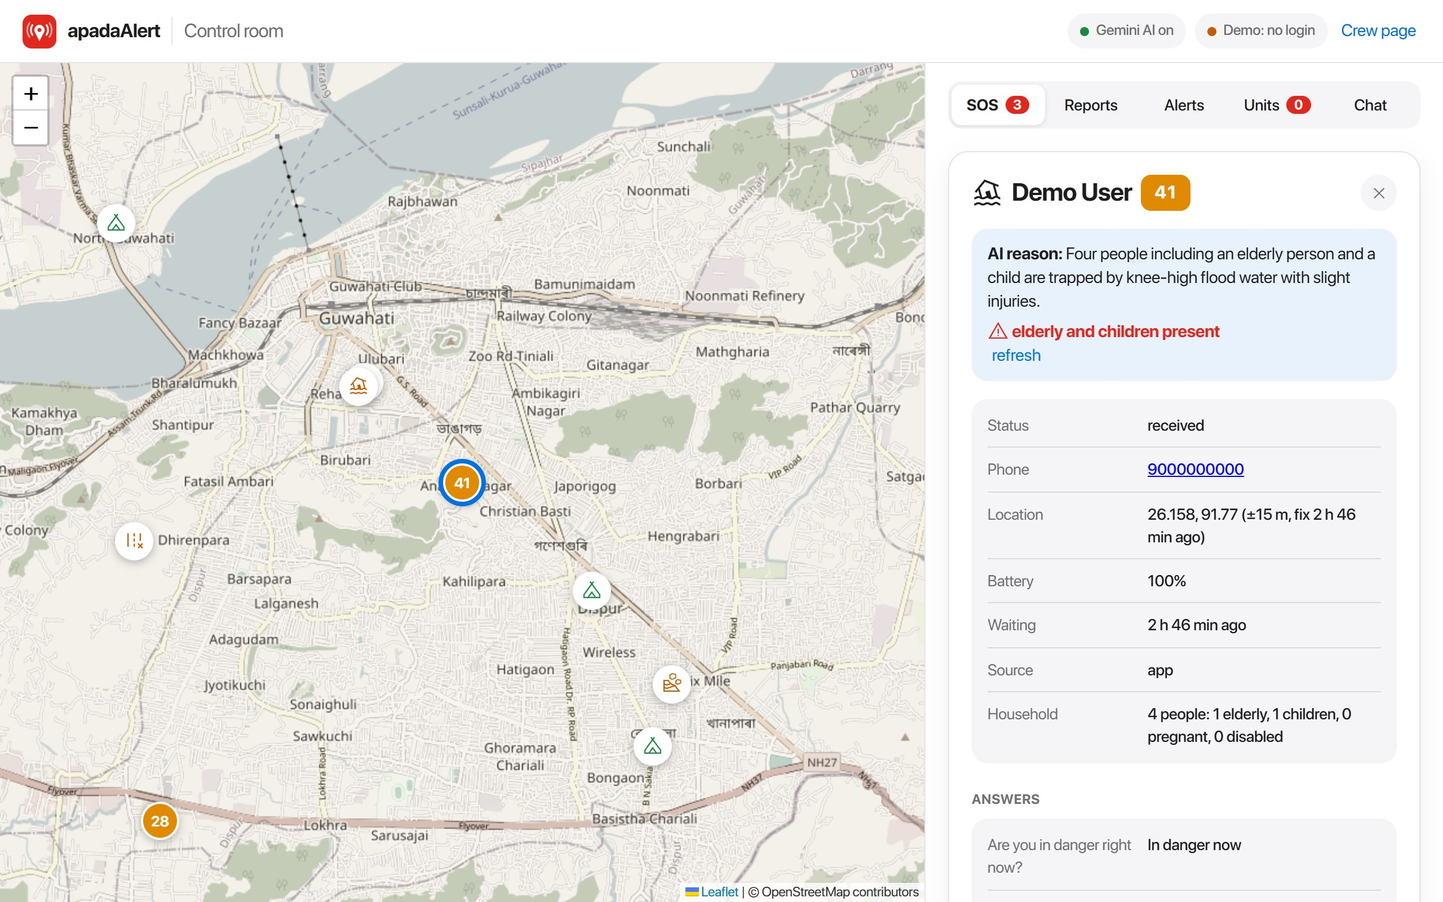
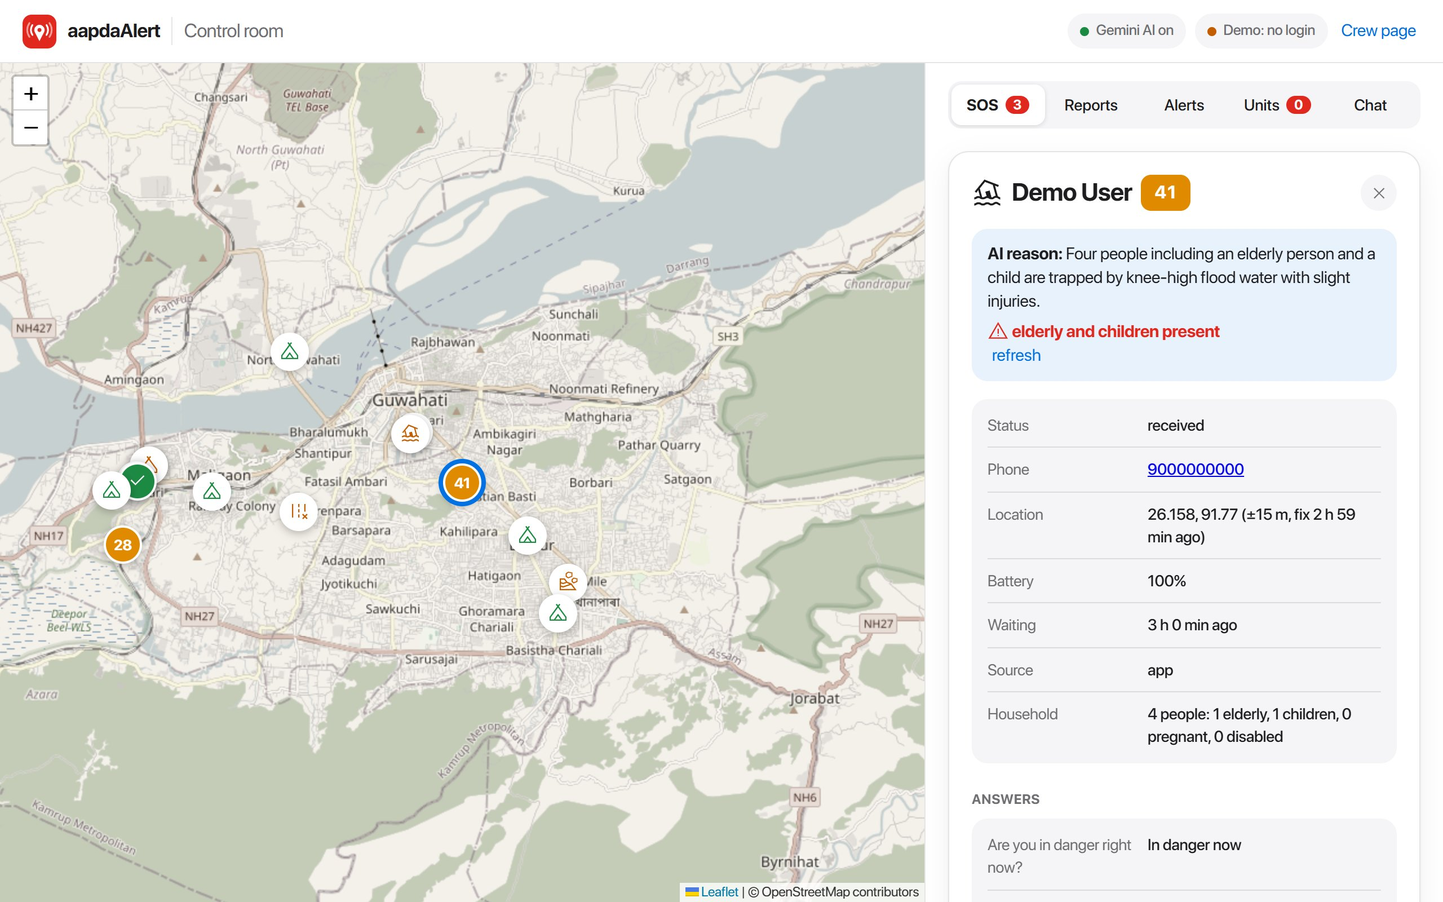
feat: rename to aapdaAlert and add desktop phone preview frame

diff --git a/public/js/i18n.js b/public/js/i18n.js
@@ -45,7 +45,7 @@ const S = {
     worried_msg: "Stay alert. If it gets worse, send an SOS.",
     steps_ai: "Steps by AI. If life is in danger, call 112 first.", steps_saved: "Saved safety steps. If life is in danger, call 112 first.",
     // chat
-    chat_title: "AI companion", chat_ph: "Type or tap the mic", im_in_danger: "I'm in danger", chat_hello: "Hello, I'm your apadaAlert companion. Ask me anything about staying safe, or tell me what's happening.",
+    chat_title: "AI companion", chat_ph: "Type or tap the mic", im_in_danger: "I'm in danger", chat_hello: "Hello, I'm your aapdaAlert companion. Ask me anything about staying safe, or tell me what's happening.",
     chat_offline: "No network, so I can't chat right now. You can still answer the quick questions, read the guides or call a helpline.",
     chat_ai_off: "The AI is not available right now. You can still answer the quick questions, read the guides or call a helpline.",
     ask_questions: "Answer quick questions", chat_saved_note: "Chats are saved on our server and processed by Google Gemini.",
@@ -119,7 +119,7 @@ const S = {
     dothis: "अभी यह करें", read_aloud: "पढ़कर सुनाएँ", copy_sms: "SMS के लिए कॉपी करें", copied: "कॉपी हो गया", strobe: "फ्लैश",
     worried_msg: "सतर्क रहें। हालात बिगड़ें तो SOS भेजें।",
     steps_ai: "AI द्वारा कदम। जान का खतरा हो तो पहले 112 पर कॉल करें।", steps_saved: "सेव किए गए सुरक्षा कदम। जान का खतरा हो तो पहले 112 पर कॉल करें।",
-    chat_title: "AI साथी", chat_ph: "लिखें या माइक दबाएँ", im_in_danger: "मैं खतरे में हूँ", chat_hello: "नमस्ते, मैं आपका apadaAlert साथी हूँ। सुरक्षित रहने के बारे में कुछ भी पूछें, या बताएँ क्या हो रहा है।",
+    chat_title: "AI साथी", chat_ph: "लिखें या माइक दबाएँ", im_in_danger: "मैं खतरे में हूँ", chat_hello: "नमस्ते, मैं आपका aapdaAlert साथी हूँ। सुरक्षित रहने के बारे में कुछ भी पूछें, या बताएँ क्या हो रहा है।",
     chat_offline: "नेटवर्क नहीं है, इसलिए अभी बात नहीं हो सकती। आप जल्दी के सवालों का जवाब दे सकते हैं, गाइड पढ़ सकते हैं या हेल्पलाइन पर कॉल कर सकते हैं।",
     chat_ai_off: "AI अभी उपलब्ध नहीं है। आप जल्दी के सवालों का जवाब दे सकते हैं, गाइड पढ़ सकते हैं या हेल्पलाइन पर कॉल कर सकते हैं।",
     ask_questions: "जल्दी के सवाल", chat_saved_note: "बातचीत हमारे सर्वर पर सेव होती है और Google Gemini द्वारा प्रोसेस होती है।",
@@ -186,7 +186,7 @@ const S = {
     dothis: "এতিয়াই এইটো কৰক", read_aloud: "পঢ়ি শুনাওক", copy_sms: "SMS-ৰ বাবে কপি কৰক", copied: "কপি হ'ল", strobe: "ফ্লেচ",
     worried_msg: "সজাগ থাকক। অৱস্থা বেয়া হ'লে SOS পঠিয়াওক।",
     steps_ai: "AI-ৰ পৰামৰ্শ। প্ৰাণৰ ভয় থাকিলে প্ৰথমে 112 লৈ ফোন কৰক।", steps_saved: "ছেভ কৰা সুৰক্ষা পদক্ষেপ। প্ৰাণৰ ভয় থাকিলে প্ৰথমে 112 লৈ ফোন কৰক।",
-    chat_title: "AI সংগী", chat_ph: "লিখক বা মাইক টিপক", im_in_danger: "মই বিপদত আছো", chat_hello: "নমস্কাৰ, মই আপোনাৰ apadaAlert সংগী। সুৰক্ষিত থকাৰ বিষয়ে যিকোনো কথা সোধক, বা কি হৈ আছে কওক।",
+    chat_title: "AI সংগী", chat_ph: "লিখক বা মাইক টিপক", im_in_danger: "মই বিপদত আছো", chat_hello: "নমস্কাৰ, মই আপোনাৰ aapdaAlert সংগী। সুৰক্ষিত থকাৰ বিষয়ে যিকোনো কথা সোধক, বা কি হৈ আছে কওক।",
     chat_offline: "নেটৱৰ্ক নাই, সেয়েহে এতিয়া কথা পাতিব নোৱাৰি। আপুনি সোনকালে প্ৰশ্নৰ উত্তৰ দিব পাৰে, গাইড পঢ়িব পাৰে বা হেল্পলাইনলৈ ফোন কৰিব পাৰে।",
     chat_ai_off: "AI এতিয়া উপলব্ধ নহয়। আপুনি সোনকালে প্ৰশ্নৰ উত্তৰ দিব পাৰে, গাইড পঢ়িব পাৰে বা হেল্পলাইনলৈ ফোন কৰিব পাৰে।",
     ask_questions: "সোনকালে প্ৰশ্ন", chat_saved_note: "কথা-বতৰা আমাৰ চাৰ্ভাৰত ছেভ হয় আৰু Google Gemini-এ প্ৰচেছ কৰে।",
@@ -253,7 +253,7 @@ const S = {
     dothis: "এখনই এটা করুন", read_aloud: "পড়ে শোনান", copy_sms: "SMS-এর জন্য কপি করুন", copied: "কপি হয়েছে", strobe: "ফ্ল্যাশ",
     worried_msg: "সতর্ক থাকুন। অবস্থা খারাপ হলে SOS পাঠান।",
     steps_ai: "AI-এর পরামর্শ। প্রাণের ঝুঁকি থাকলে আগে 112-এ ফোন করুন।", steps_saved: "সেভ করা নিরাপত্তা পদক্ষেপ। প্রাণের ঝুঁকি থাকলে আগে 112-এ ফোন করুন।",
-    chat_title: "AI সঙ্গী", chat_ph: "লিখুন বা মাইক চাপুন", im_in_danger: "আমি বিপদে আছি", chat_hello: "নমস্কার, আমি আপনার apadaAlert সঙ্গী। নিরাপদ থাকা নিয়ে যা খুশি জিজ্ঞেস করুন, বা কী হচ্ছে বলুন।",
+    chat_title: "AI সঙ্গী", chat_ph: "লিখুন বা মাইক চাপুন", im_in_danger: "আমি বিপদে আছি", chat_hello: "নমস্কার, আমি আপনার aapdaAlert সঙ্গী। নিরাপদ থাকা নিয়ে যা খুশি জিজ্ঞেস করুন, বা কী হচ্ছে বলুন।",
     chat_offline: "নেটওয়ার্ক নেই, তাই এখন কথা বলা যাচ্ছে না। আপনি দ্রুত প্রশ্নের উত্তর দিতে, গাইড পড়তে বা হেল্পলাইনে ফোন করতে পারেন।",
     chat_ai_off: "AI এখন পাওয়া যাচ্ছে না। আপনি দ্রুত প্রশ্নের উত্তর দিতে, গাইড পড়তে বা হেল্পলাইনে ফোন করতে পারেন।",
     ask_questions: "দ্রুত প্রশ্ন", chat_saved_note: "কথোপকথন আমাদের সার্ভারে সেভ হয় এবং Google Gemini প্রসেস করে।",

diff --git a/public/styles.css b/public/styles.css
@@ -1,4 +1,4 @@
-/* apadaAlert citizen app.
+/* aapdaAlert citizen app.
    White theme. SF Pro on Apple devices, Inter elsewhere. 8-point spacing. Large touch targets. */
 :root {
   /* colour */
@@ -13,6 +13,7 @@
   /* shape and space */
   --r-s: 10px; --r-m: 14px; --r-l: 18px; --r-xl: 24px;
   --gutter: 20px; --nav-h: 60px; --top-h: 52px;
+  --app-h: 100dvh; /* the app's visible height: the whole screen on phones, the phone frame on wide screens */
   --shadow: 0 1px 2px rgba(0, 0, 0, .04), 0 8px 24px rgba(0, 0, 0, .06);
   --font: -apple-system, BlinkMacSystemFont, "SF Pro Text", "SF Pro Display", "Inter", system-ui, "Segoe UI", Roboto,
     "Noto Sans", "Noto Sans Devanagari", "Noto Sans Bengali", sans-serif;
@@ -189,7 +190,7 @@ button:focus-visible, a:focus-visible, input:focus-visible, textarea:focus-visib
 .steps li::before { content: counter(s); position: absolute; left: 0; top: -1px; width: 26px; height: 26px; border-radius: 50%; background: var(--fill); color: var(--text-2); font-size: 13px; font-weight: 700; display: grid; place-items: center; }
 
 /* ---------- intro and forms ---------- */
-.intro { min-height: calc(100dvh - var(--top-h) - 32px); display: flex; }
+.intro { min-height: calc(var(--app-h) - var(--top-h) - 32px); display: flex; }
 .intro-card { width: 100%; display: flex; flex-direction: column; text-align: center; padding: 24px 0 112px; }
 .intro-card.left { text-align: left; }
 .intro-body { flex: 1; display: flex; flex-direction: column; justify-content: center; }
@@ -233,7 +234,7 @@ textarea { resize: vertical; }
 .overlay { position: fixed; inset: 0; z-index: 50; background: var(--bg); overflow-y: auto; display: flex; justify-content: center; }
 .overlay > * { width: 100%; max-width: 560px; }
 .overlay.sheet { background: rgba(0, 0, 0, .4); align-items: flex-end; }
-.overlay.sheet > .card { margin: 0; border: 0; border-radius: var(--r-xl) var(--r-xl) 0 0; max-height: 92dvh; overflow-y: auto; padding: 12px var(--gutter) calc(24px + env(safe-area-inset-bottom)); box-shadow: 0 -8px 40px rgba(0, 0, 0, .18); }
+.overlay.sheet > .card { margin: 0; border: 0; border-radius: var(--r-xl) var(--r-xl) 0 0; max-height: calc(var(--app-h) * .92); overflow-y: auto; padding: 12px var(--gutter) calc(24px + env(safe-area-inset-bottom)); box-shadow: 0 -8px 40px rgba(0, 0, 0, .18); }
 .sheet > .card::before { content: ""; display: block; width: 36px; height: 5px; border-radius: 3px; background: var(--fill-2); margin: 0 auto 20px; }
 .overlay.heli { background: rgba(0, 0, 0, .45); align-items: center; padding: var(--gutter); }
 .heli-card { text-align: center; padding: 28px 20px 20px; border-radius: var(--r-xl); }
@@ -250,7 +251,7 @@ textarea { resize: vertical; }
 .danger-hint.sent { color: var(--green); }
 .danger-hint .ic { width: 18px; height: 18px; }
 .danger-q { font-size: 30px; line-height: 1.15; font-weight: 700; letter-spacing: -.025em; margin: 20px 0 24px; }
-.danger-wait { display: grid; place-items: center; min-height: 60dvh; }
+.danger-wait { display: grid; place-items: center; min-height: calc(var(--app-h) * .6); }
 .opts { display: flex; flex-direction: column; gap: 10px; }
 .opts.compact { display: grid; grid-template-columns: 1fr 1fr; }
 .opt {
@@ -285,7 +286,7 @@ textarea { resize: vertical; }
 .strobe-stop { position: absolute; bottom: calc(32px + env(safe-area-inset-bottom)); left: 50%; transform: translateX(-50%); min-width: 180px; background: #1d1d1f; color: #fff; }
 
 /* ---------- chat ---------- */
-.chat { display: flex; flex-direction: column; height: calc(100dvh - var(--top-h) - var(--nav-h) - env(safe-area-inset-bottom) - 48px); }
+.chat { display: flex; flex-direction: column; height: calc(var(--app-h) - var(--top-h) - var(--nav-h) - env(safe-area-inset-bottom) - 48px); }
 .chat-head { display: flex; align-items: center; gap: 12px; padding-bottom: 12px; border-bottom: .5px solid var(--line); }
 .chat-head h1 { font-size: 22px; margin: 0 0 2px; }
 .companion { width: 28px; height: 28px; border-radius: 50%; flex: none; display: block; }
@@ -326,7 +327,7 @@ textarea { resize: vertical; }
 .legend-dot { width: 10px; height: 10px; border-radius: 50%; background: var(--orange); }
 .legend-dot.camp { background: var(--green); } .legend-dot.unit { background: var(--blue); }
 .map-wrap { position: relative; margin-bottom: 4px; }
-.map { height: 46dvh; min-height: 280px; max-height: 460px; border-radius: var(--r-l); z-index: 1; background: var(--fill); overflow: hidden; }
+.map { height: calc(var(--app-h) * .46); min-height: 280px; max-height: 460px; border-radius: var(--r-l); z-index: 1; background: var(--fill); overflow: hidden; }
 .map-btn { position: absolute; right: 12px; bottom: 28px; z-index: 5; width: 44px; height: 44px; border-radius: 50%; border: 0; background: var(--bg); color: var(--blue); display: grid; place-items: center; cursor: pointer; box-shadow: 0 2px 10px rgba(0, 0, 0, .2); }
 .map-btn .ic { width: 22px; height: 22px; }
 .list-row.as-btn { width: 100%; border: 0; background: transparent; font: inherit; letter-spacing: inherit; text-align: left; cursor: pointer; }
@@ -375,7 +376,7 @@ textarea { resize: vertical; }
 
 /* ---------- people nearby ---------- */
 .tabs.seg { margin: 0 0 12px; }
-.chat-wrap .chat { height: calc(100dvh - var(--top-h) - var(--nav-h) - env(safe-area-inset-bottom) - 100px); }
+.chat-wrap .chat { height: calc(var(--app-h) - var(--top-h) - var(--nav-h) - env(safe-area-inset-bottom) - 100px); }
 .people-note { margin: 0 0 4px; line-height: 1.45; }
 .people-note .ic { width: 14px; height: 14px; }
 .people-note .mesh { color: var(--text-3); }
@@ -415,3 +416,28 @@ textarea { resize: vertical; }
 
 /* Softer map colours so pins stand out */
 .soft-tiles { filter: saturate(.3) brightness(1.05) contrast(.96); }
+
+/* ---------- wide screens: phone frame ---------- */
+/* On laptops and desktops the app is shown inside a phone-sized frame that always fits the window,
+   and scrolls inside the frame like a real phone. Phones are not affected. */
+@media (min-width: 820px) {
+  html, body { height: 100%; overflow: hidden; }
+  body {
+    display: flex; align-items: center; justify-content: center;
+    background: radial-gradient(1200px 600px at 50% -10%, #fdeceb 0%, rgba(253, 236, 235, 0) 60%), #f1f2f5;
+  }
+  #app {
+    --app-h: min(860px, calc(100dvh - 48px));
+    width: 400px; height: var(--app-h); min-height: 0; margin: 0;
+    display: flex; flex-direction: column; overflow: hidden;
+    background: var(--bg); border-radius: 44px;
+    box-shadow: 0 0 0 10px #1d1d1f, 0 0 0 11px #48484a, 0 40px 90px rgba(0, 0, 0, .25);
+    /* Makes fixed-position parts (bottom bar, popups, SOS button, toasts) stay inside the frame */
+    transform: translateZ(0);
+  }
+  #app > .topbar { position: relative; flex: none; padding-top: 6px; }
+  #app > main { flex: 1; min-height: 0; overflow-y: auto; overscroll-behavior: contain; scrollbar-width: thin; }
+  #app .bottomnav { padding-bottom: 8px; height: calc(var(--nav-h) + 8px); }
+  .overlay { border-radius: 44px; }
+  .overlay.sheet > .card { border-radius: var(--r-xl) var(--r-xl) 44px 44px; }
+}

diff --git a/public/js/app.js b/public/js/app.js
@@ -1,4 +1,4 @@
-// apadaAlert citizen app: screens and navigation.
+// aapdaAlert citizen app: screens and navigation.
 import { LANGS, t, setLang, getLang, pick, speechLang } from "./i18n.js";
 import { h, $, toast, timeAgo, fill } from "./ui.js";
 import { icon, label } from "./icons.js";
@@ -190,7 +190,7 @@ function updateTop(id) {
   const showBack = Boolean(SUB_SCREENS[id]);
   fill($("#topleft"), showBack
     ? h("a", { class: "back", href: "#home", "aria-label": t("back"), onclick: (e) => { e.preventDefault(); goBack(); } }, icon("arrow_back"))
-    : h("a", { class: "mark", href: "#home", "aria-label": "apadaAlert" }, h("img", { src: "/icons/icon.svg", alt: "" })));
+    : h("a", { class: "mark", href: "#home", "aria-label": "aapdaAlert" }, h("img", { src: "/icons/icon.svg", alt: "" })));
   const avatar = $("#avatar");
   avatar.hidden = !settings.introDone;
   const name = getProfile().name.trim();
@@ -220,9 +220,11 @@ function route() {
   document.querySelectorAll("#nav a").forEach((a) => a.classList.toggle("active", a.dataset.id === tab));
   const screens = { home: renderHome, chat: renderChatView, map: renderMap, guides: renderGuides, guide: (v) => renderGuide(v, arg), more: renderMore, help: renderHelp, camps: renderCamps, tools: renderTools, profile: renderProfile, tour: renderTourView };
   (screens[id] || renderHome)(view);
-  window.scrollTo(0, 0);
+  scrollTop();
 }
 const goto = (id) => { location.hash = id; };
+/** Back to the top of the screen: the page on phones, the app area inside the frame on wide screens. */
+function scrollTop() { window.scrollTo(0, 0); const v = $("#view"); if (v) v.scrollTop = 0; }
 
 // The screens visited in order, so Back returns to the previous one (or Home).
 const trail = [];
@@ -245,7 +247,7 @@ function renderIntro(view) {
   const steps = [introLang, introCard(1), introCard(2), introCard(3), introDetails, introConsent];
   fill(view, h("div", { class: "intro" }, steps[introStep]()),
     h("button", { class: "sos-float", "aria-label": t("sos"), onclick: () => { finishIntro(); startDanger({ trigger: "sos", onLeftover: askLeftovers }); } }, "SOS"));
-  window.scrollTo(0, 0);
+  scrollTop();
 }
 const nextIntro = () => { introStep++; route(); };
 const prevIntro = () => { introStep = Math.max(0, introStep - 1); route(); };
@@ -261,7 +263,7 @@ function introLang() {
   return h("div", { class: "intro-card" },
     h("div", { class: "intro-body" },
       h("img", { class: "hero-logo", src: "/icons/icon.svg", alt: "" }),
-      h("p", { class: "wordmark" }, "apada", h("b", {}, "Alert")),
+      h("p", { class: "wordmark" }, "aapda", h("b", {}, "Alert")),
       h("p", { class: "lead" }, t("tagline")),
       h("h3", { style: { textAlign: "left" } }, t("intro_lang")),
       langList(nextIntro),

diff --git a/public/index.html b/public/index.html
@@ -3,8 +3,8 @@
 <head>
   <meta charset="utf-8">
   <meta name="viewport" content="width=device-width, initial-scale=1, viewport-fit=cover">
-  <title>apadaAlert</title>
-  <meta name="description" content="apadaAlert: AI disaster companion and rescue SOS for North East India">
+  <title>aapdaAlert</title>
+  <meta name="description" content="aapdaAlert: AI disaster companion and rescue SOS for North East India">
   <meta name="theme-color" content="#ffffff">
   <link rel="manifest" href="/manifest.webmanifest">
   <link rel="icon" href="/icons/icon.svg" type="image/svg+xml">
@@ -17,8 +17,8 @@
   <link rel="stylesheet" href="/styles.css">
 </head>
 <body>
-  <div id="app"><p style="padding:2rem;text-align:center">apadaAlert</p></div>
-  <noscript>apadaAlert needs JavaScript. In an emergency call 112.</noscript>
+  <div id="app"><p style="padding:2rem;text-align:center">aapdaAlert</p></div>
+  <noscript>aapdaAlert needs JavaScript. In an emergency call 112.</noscript>
   <script src="https://unpkg.com/leaflet@1.9.4/dist/leaflet.js" crossorigin=""></script>
   <script type="module" src="/js/app.js"></script>
 </body>

diff --git a/public/js/ui.js b/public/js/ui.js
@@ -23,7 +23,7 @@ export const $ = (sel, root = document) => root.querySelector(sel);
 let toastTimer = null;
 export function toast(msg, ms = 3500) {
   let el = $("#toast");
-  if (!el) { el = h("div", { id: "toast", role: "status", "aria-live": "polite" }); document.body.append(el); }
+  if (!el) { el = h("div", { id: "toast", role: "status", "aria-live": "polite" }); (document.getElementById("app") || document.body).append(el); }
   el.textContent = msg;
   el.classList.add("show");
   clearTimeout(toastTimer);
@@ -33,7 +33,7 @@ export function toast(msg, ms = 3500) {
 /** Full-screen layer on top of the app. Returns a close function. */
 export function overlay(content, { className = "", onClose } = {}) {
   const layer = h("div", { class: `overlay ${className}`, role: "dialog", "aria-modal": "true" }, content);
-  document.body.append(layer);
+  (document.getElementById("app") || document.body).append(layer);
   document.body.classList.add("has-overlay");
   const close = () => {
     layer.remove();

diff --git a/public/dashboard.html b/public/dashboard.html
@@ -3,7 +3,7 @@
 <head>
   <meta charset="utf-8">
   <meta name="viewport" content="width=device-width, initial-scale=1">
-  <title>apadaAlert Control Room</title>
+  <title>aapdaAlert Control Room</title>
   <meta name="theme-color" content="#ffffff">
   <link rel="icon" href="/icons/icon.svg" type="image/svg+xml">
   <link rel="stylesheet" href="https://unpkg.com/leaflet@1.9.4/dist/leaflet.css" crossorigin="">
@@ -13,7 +13,7 @@
 </head>
 <body>
   <header class="dh">
-    <div class="dh-brand"><img class="logo" src="/icons/icon.svg" alt=""> <span>apadaAlert</span> <span class="dh-title">Control room</span></div>
+    <div class="dh-brand"><img class="logo" src="/icons/icon.svg" alt=""> <span>aapdaAlert</span> <span class="dh-title">Control room</span></div>
     <div class="dh-meta">
       <span id="ai-status" class="tag">AI …</span>
       <span class="tag warn" title="This is a hackathon demo: anyone with the link can open this page">Demo: no login</span>

diff --git a/public/crew.html b/public/crew.html
@@ -3,7 +3,7 @@
 <head>
   <meta charset="utf-8">
   <meta name="viewport" content="width=device-width, initial-scale=1, viewport-fit=cover">
-  <title>apadaAlert Crew</title>
+  <title>aapdaAlert Crew</title>
   <meta name="theme-color" content="#ffffff">
   <link rel="icon" href="/icons/icon.svg" type="image/svg+xml">
   <link rel="preconnect" href="https://fonts.gstatic.com" crossorigin>
@@ -12,7 +12,7 @@
 </head>
 <body class="crew">
   <header class="dh">
-    <div class="dh-brand"><img class="logo" src="/icons/icon.svg" alt=""> <span>apadaAlert</span> <span class="dh-title">Crew</span></div>
+    <div class="dh-brand"><img class="logo" src="/icons/icon.svg" alt=""> <span>aapdaAlert</span> <span class="dh-title">Crew</span></div>
     <span class="tag warn">Demo: no login</span>
   </header>
   <main id="crew" class="crew-main"></main>

diff --git a/public/js/sos.js b/public/js/sos.js
@@ -95,7 +95,7 @@ export function smsLink(s = activeSos()) {
   const loc = s?.lat != null ? s : lastLocation() || {};
   const a = s?.answers || {};
   const where = loc.lat != null ? `${loc.lat},${loc.lon} https://maps.google.com/?q=${loc.lat},${loc.lon}` : "location unknown";
-  const body = `SOS apadaAlert. ${p.name || ""} needs rescue. ${s?.hazard && s.hazard !== "unknown" ? s.hazard + ". " : ""}` +
+  const body = `SOS aapdaAlert. ${p.name || ""} needs rescue. ${s?.hazard && s.hazard !== "unknown" ? s.hazard + ". " : ""}` +
     `${p.people ? p.people + " people. " : ""}${a.injured === "bad" ? "Badly injured. " : ""}${a.canMove === "stuck" ? "Stuck. " : ""}Location: ${where}`;
   const to = (p.contacts || []).map((c) => c.phone).filter(Boolean).join(",");
   return `sms:${to}?body=${encodeURIComponent(body)}`;

diff --git a/lib/outside.js b/lib/outside.js
@@ -34,7 +34,7 @@ const tag = (xml, name) => { const m = new RegExp(`<${name}[^>]*>([\\s\\S]*?)</$
 /** Latest official alerts for North East India, newest first. */
 export async function officialAlerts() {
   return cached("sachet", TEN_MIN, async () => {
-    const res = await fetch(SACHET_RSS, { headers: { "User-Agent": "apadaAlert/1.0 (disaster companion demo)" }, signal: AbortSignal.timeout(12000) });
+    const res = await fetch(SACHET_RSS, { headers: { "User-Agent": "aapdaAlert/1.0 (disaster companion demo)" }, signal: AbortSignal.timeout(12000) });
     if (!res.ok) throw new Error(`SACHET HTTP ${res.status}`);
     const xml = await res.text();
     const items = [...xml.matchAll(/<item>([\s\S]*?)<\/item>/g)].map(([, it]) => {

diff --git a/lib/gemini.js b/lib/gemini.js
@@ -50,7 +50,7 @@ Rules you must always follow:
 // ---------- companion chat ----------
 export async function chatReply({ language, history, context }) {
   const lang = LANG_NAMES[language] || "English";
-  const system = `You are the apadaAlert companion: a calm, warm helper inside a disaster safety app.
+  const system = `You are the aapdaAlert companion: a calm, warm helper inside a disaster safety app.
 Reply in ${lang} only, at most 3 short sentences.
 
 How to reply:

diff --git a/server.js b/server.js
@@ -34,7 +34,7 @@ http.createServer(async (req, res) => {
     res.end(data);
   });
 }).listen(PORT, () => {
-  console.log(`apadaAlert running at http://localhost:${PORT}`);
+  console.log(`aapdaAlert running at http://localhost:${PORT}`);
   console.log(`  Citizen app: http://localhost:${PORT}/`);
   console.log(`  Dashboard:   http://localhost:${PORT}/dashboard`);
   console.log(`  Crew page:   http://localhost:${PORT}/crew`);

diff --git a/public/js/state.js b/public/js/state.js
@@ -45,6 +45,8 @@ export function addChat(msg) {
 }
 
 // ---------- outbox in IndexedDB (PRD F3) ----------
+// Internal storage name from before the rename to aapdaAlert. Kept on purpose: changing it would strand
+// any SOS still waiting in a phone's outbox. Nobody sees this name.
 const DB_NAME = "apadaAlert";
 const STORE = "outbox";
 let dbPromise = null;
